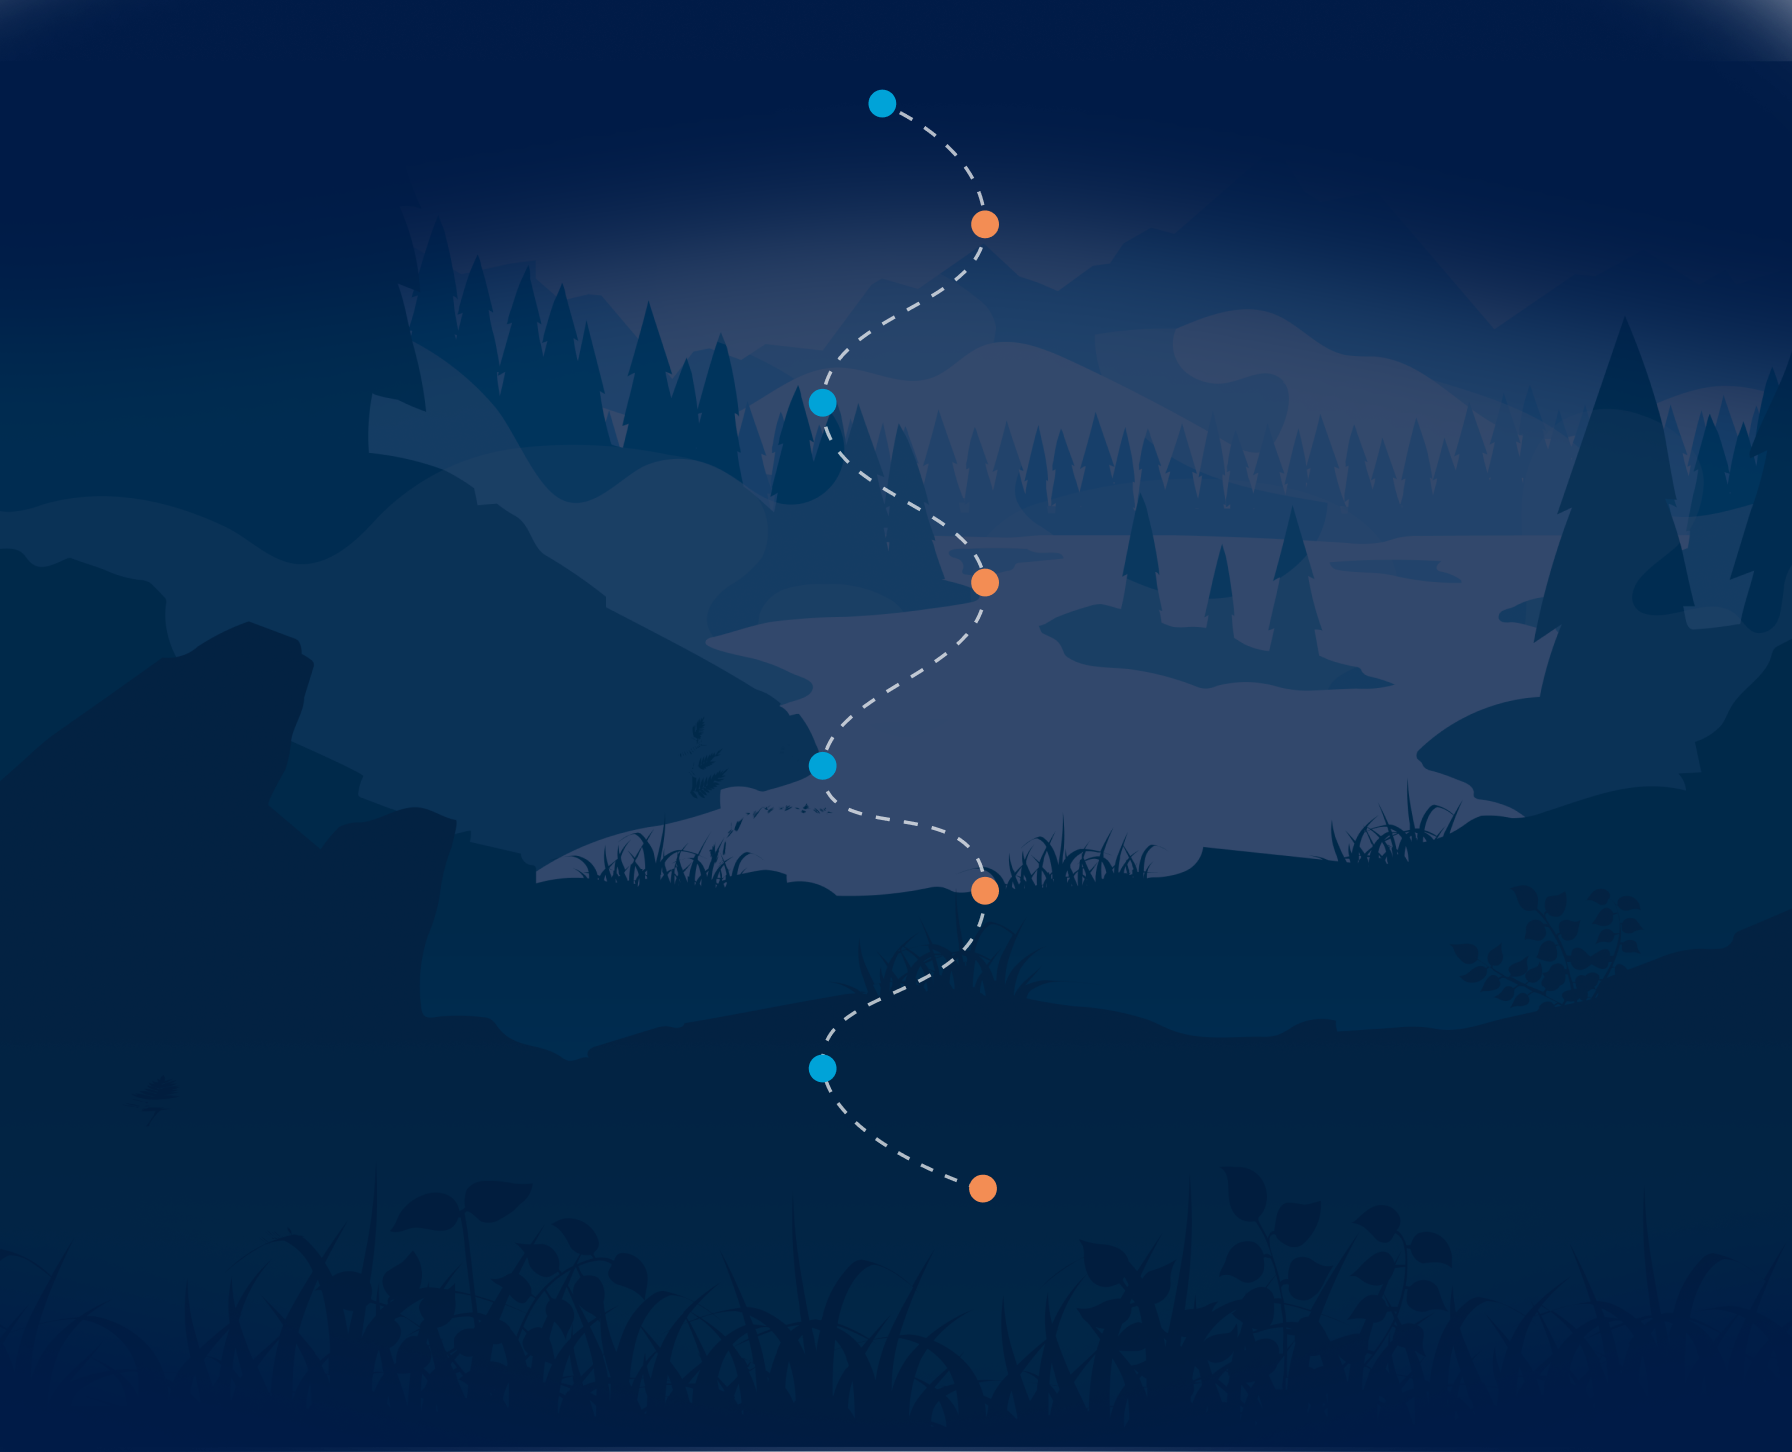
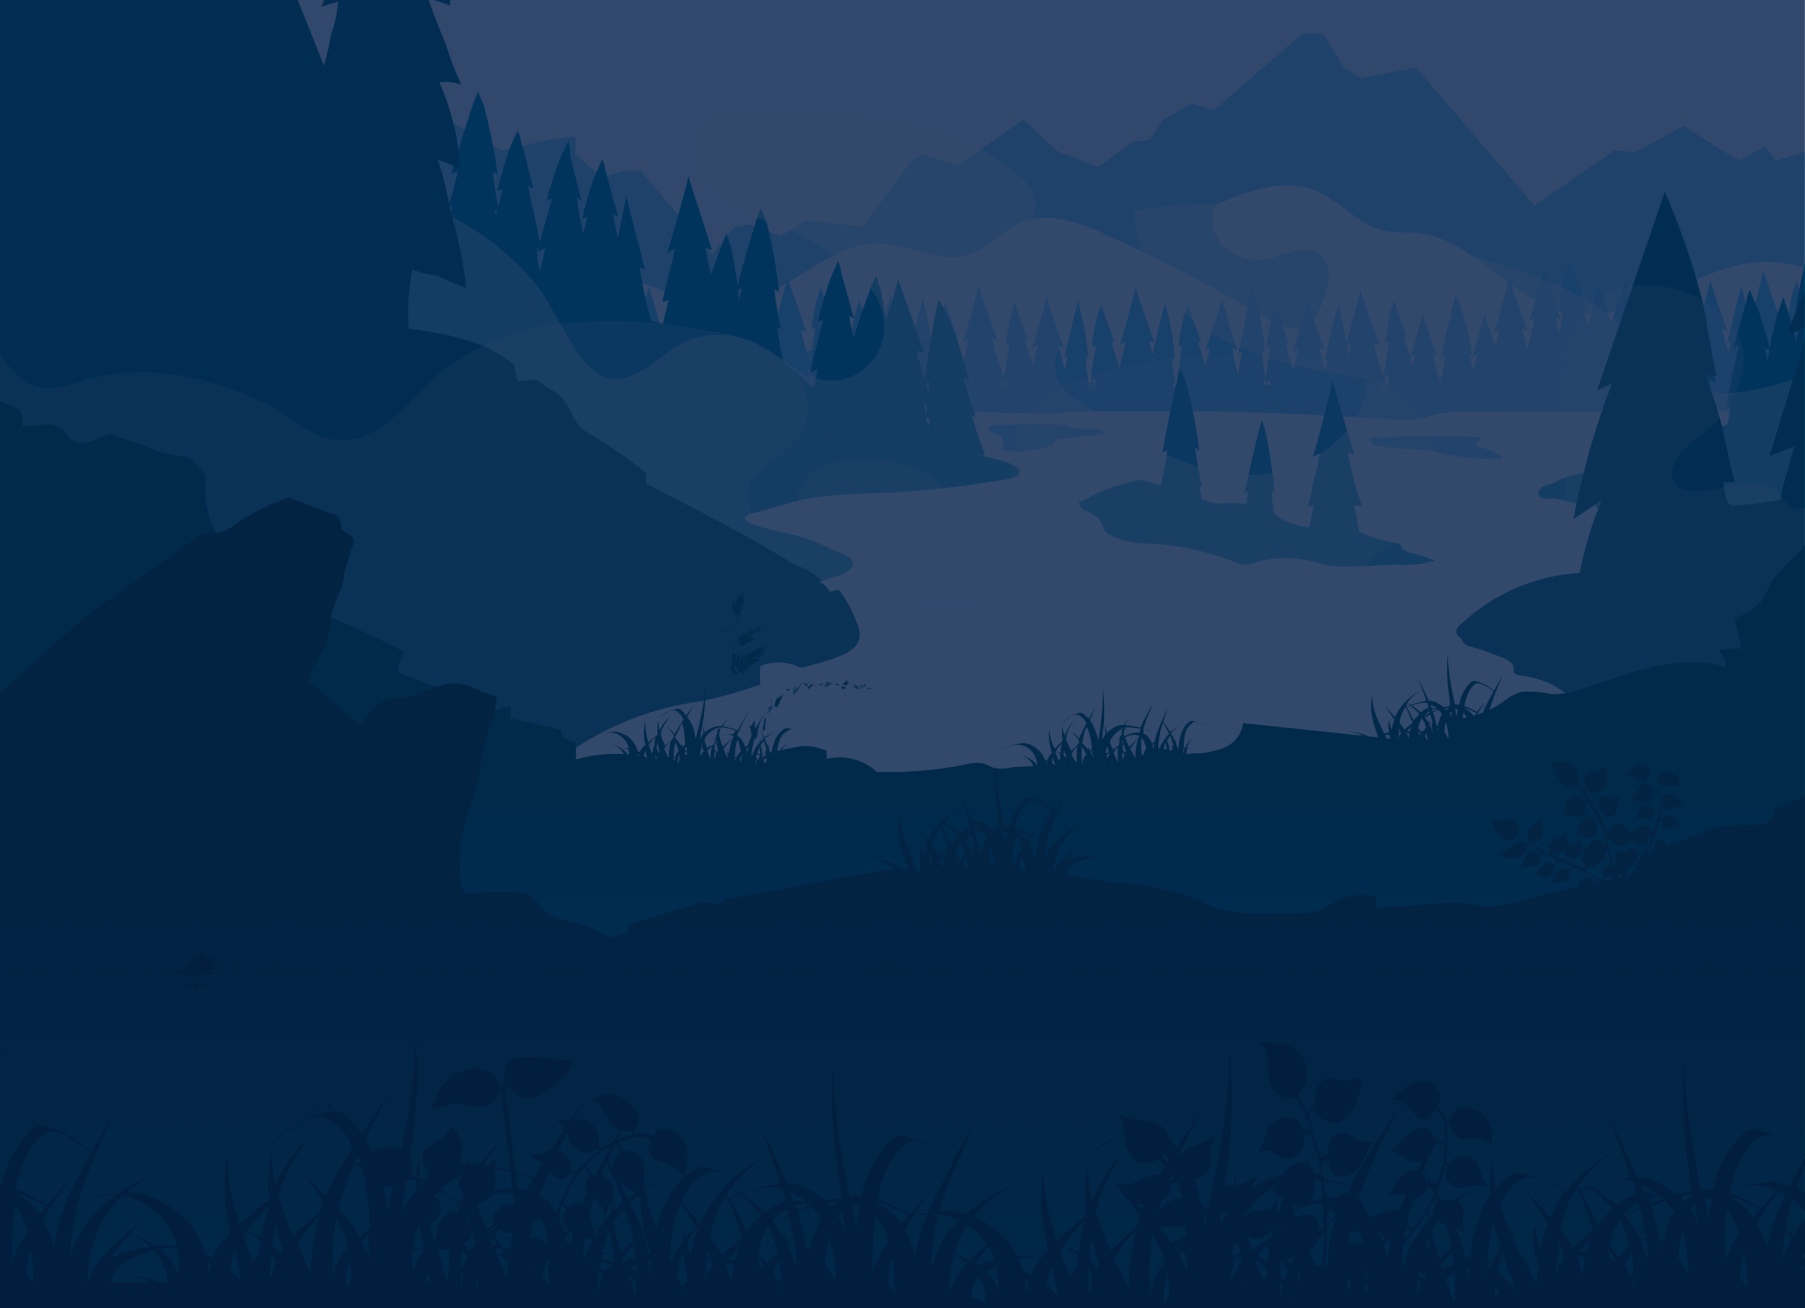
Roadmap article

diff --git a/src/components/RoadMapCanvas.tsx b/src/components/RoadMapCanvas.tsx
@@ -1,0 +1,144 @@
+import { useCallback, useEffect, useRef } from "react";
+
+interface TPosition {
+    x: number;
+    y: number;
+    type: "right" | "left";
+}
+
+function RoadMapCanvas() {
+    const canvasRef = useRef<HTMLCanvasElement>(null);
+    const allParagraph = document.querySelectorAll(".canvas-paragraph") || undefined;
+    const canvasContainer = document.querySelector(".canvas-container") || undefined;
+    const canvas = canvasRef.current;
+    const ctx = canvas?.getContext("2d");
+
+    const getPosition = useCallback(
+        (element: Element, type: "right" | "left"): TPosition => {
+            if (!canvasContainer) return { x: 0, y: 0, type };
+            let x;
+            const y =
+                element.getBoundingClientRect().y -
+                canvasContainer.getBoundingClientRect().y +
+                element.getBoundingClientRect().height / 2;
+            if (type === "right") {
+                x =
+                    element.getBoundingClientRect().x -
+                    canvasContainer.getBoundingClientRect().x +
+                    element.getBoundingClientRect().width +
+                    60;
+            } else {
+                x =
+                    element.getBoundingClientRect().x -
+                    canvasContainer.getBoundingClientRect().x -
+                    60;
+            }
+
+            return { x, y, type };
+        },
+        [canvasContainer]
+    );
+
+    const drawTwoCurves = useCallback(
+        (start: TPosition, end: TPosition, direction: "LTR" | "RTL") => {
+            if (!ctx) return;
+            const controlPoint1 = {
+                x: start.x,
+                y: start.y + (end.y - start.y) / 2,
+            };
+            const endPoint1 = {
+                x:
+                    direction === "LTR"
+                        ? start.x + (end.x - start.x) / 2
+                        : end.x + (start.x - end.x) / 2,
+                y: start.y + (end.y - start.y) / 2,
+            };
+
+            const controlPoint2 = {
+                x: end.x,
+                y: start.y + (end.y - start.y) / 2,
+            };
+            const endPoint2 = {
+                x: end.x,
+                y: end.y,
+            };
+            ctx.beginPath();
+            ctx.setLineDash([15, 10]);
+            ctx.strokeStyle = "rgba(255,255,255,.7)";
+            ctx.lineWidth = 4;
+            ctx.moveTo(start.x, start.y);
+            ctx.quadraticCurveTo(controlPoint1.x, controlPoint1.y, endPoint1.x, endPoint1.y);
+            ctx.stroke();
+
+            ctx.beginPath();
+            ctx.setLineDash([15, 10]);
+            ctx.strokeStyle = "rgba(255,255,255,.7)";
+            ctx.moveTo(endPoint1.x, endPoint1.y);
+            ctx.quadraticCurveTo(controlPoint2.x, controlPoint2.y, endPoint2.x, endPoint2.y);
+            ctx.lineWidth = 4;
+            ctx.moveTo(controlPoint1.x, controlPoint1.y);
+
+            ctx.stroke();
+        },
+        [ctx]
+    );
+
+    const drawOneCurve = useCallback(
+        (start: TPosition, end: TPosition, direction: "LTR" | "RTL") => {
+            if (!ctx) return;
+            const controlPoint = {
+                x: direction === "LTR" ? end.x : start.x,
+                y: direction === "LTR" ? start.y : end.y,
+            };
+            ctx.beginPath();
+            ctx.setLineDash([15, 10]);
+            ctx.strokeStyle = "rgba(255,255,255,.7)";
+            ctx.lineWidth = 4;
+            ctx.moveTo(start.x, start.y);
+            ctx.quadraticCurveTo(controlPoint.x, controlPoint.y, end.x, end.y);
+            ctx.stroke();
+        },
+        [ctx]
+    );
+
+    useEffect(() => {
+        if (!allParagraph.length || !canvasContainer || !canvasRef.current || !canvas || !ctx)
+            return;
+
+        //Set the space of canvas
+        canvas.width = canvasContainer.getBoundingClientRect().width;
+        canvas.height = canvasContainer.getBoundingClientRect().height;
+
+        const positionArr = Array.from(allParagraph).map((p, i) =>
+            i <= 4 ? getPosition(p, "right") : getPosition(p, "left")
+        );
+
+        //Draw Curves
+        drawOneCurve(positionArr[0], positionArr[5], "LTR");
+        drawTwoCurves(positionArr[5], positionArr[1], "RTL");
+        drawTwoCurves(positionArr[1], positionArr[6], "LTR");
+        drawTwoCurves(positionArr[6], positionArr[2], "RTL");
+        drawTwoCurves(positionArr[2], positionArr[7], "LTR");
+        drawTwoCurves(positionArr[7], positionArr[3], "RTL");
+        drawTwoCurves(positionArr[3], positionArr[8], "LTR");
+        drawOneCurve(positionArr[8], positionArr[4], "RTL");
+
+        //Draw Points
+        positionArr.forEach((position) => {
+            if (!position?.x || !position.y) return;
+            ctx.beginPath();
+            ctx.lineWidth = 3;
+            ctx.arc(position?.x, position?.y, 15, 0, 360, false);
+            position.type === "left" ? (ctx.fillStyle = "#F38D54") : (ctx.fillStyle = "#00A3D8");
+            ctx.fill();
+        });
+    }, [allParagraph, canvas, canvasContainer, ctx, drawOneCurve, drawTwoCurves, getPosition]);
+    return (
+        <canvas
+            className="absolute top-0 bottom-0 left-0 right-0 lg:block hidden"
+            ref={canvasRef}
+        ></canvas>
+    );
+}
+
+export default RoadMapCanvas;

diff --git a/src/components/RoadmapArticle.tsx b/src/components/RoadmapArticle.tsx
@@ -6,6 +6,7 @@ import imgRoadmapMobile from "../assets/images/roadmap-mobile-background.png";
 import Article from "./commons/Article";
 import { ArticleBox } from "./ArticleBox";
 import { useMediaQuery } from "../app/hooks";
+import RoadMapCanvas from "./RoadMapCanvas";
 
 export default function RoadmapArticle(): React.ReactElement {
     const mediaQuery = useMediaQuery();
@@ -186,7 +187,7 @@ export default function RoadmapArticle(): React.ReactElement {
                     })
                     .map((item, index) => {
                         return (
-                            <div key={index}>
+                            <div className="canvas-paragraph" key={index}>
                                 <div className="mt-28 text-white text-xl font-bold">
                                     {item.stage}
                                 </div>
@@ -222,7 +223,7 @@ export default function RoadmapArticle(): React.ReactElement {
                     })
                     .map((item, index) => {
                         return (
-                            <div key={index}>
+                            <div className="canvas-paragraph" key={index}>
                                 <div className="mt-36 text-white text-xl font-bold">
                                     {item.stage}
                                 </div>
@@ -286,15 +287,9 @@ export default function RoadmapArticle(): React.ReactElement {
             </div>
         );
     }, []);
+
     return (
         <Article className="flex-col lg:flex-row min-h-[700px]">
-            <div
-                className={cn(
-                    "absolute top-0 bottom-0 right-0 left-0",
-                    "bg-no-repeat bg-cover bg-center bg-primary-mint-lab"
-                )}
-            ></div>
-
             <div
                 className={cn(
                     "grow z-20 bg-primary-mint-lab px-5 lg:px-12",
@@ -304,25 +299,43 @@ export default function RoadmapArticle(): React.ReactElement {
                 <h1 className="mb-8 last:mb-0 lg:text-center font-bold text-2xl lg:text-5xl z-20">
                     The Legendary Roadmap
                 </h1>
+
                 <div
                     className={cn(
                         "absolute top-0 lg:top-20 bottom-0 right-0 left-0",
-                        "bg-no-repeat bg-cover bg-top"
+                        "bg-no-repeat  "
                     )}
                     style={{
-                        backgroundImage: mediaQuery.checkMatchMinWidth(760)
+                        backgroundImage: mediaQuery.checkMatchMinWidth(1024)
                             ? `url(${imgRoadmap01})`
                             : `url(${imgRoadmapMobile})`,
+                        backgroundSize: "cover",
                     }}
                 ></div>
-
-                {mediaQuery.checkMatchMinWidth(1024) && (
-                    <ArticleBox
-                        className="bg-contain bg-repeat-round justify-between  lg:pt-12 lg:pb-36 lg:pr-36 lg:pl-48  z-10"
-                        childElement={renderArr()}
-                    />
-                )}
-                {!mediaQuery.checkMatchMinWidth(1024) && renderArrMobile()}
+                <div
+                    className={cn(
+                        "bg-gradient-to-b from-primary-mint-lab via-primary-mint-lab/100 to-slate-900/0 ",
+                        "absolute h-1/4 w-full top-[3%] right-0 left-0  "
+                    )}
+                ></div>
+                <div
+                    className={cn(
+                        "bg-gradient-to-t from-primary-mint-lab via-primary-mint-lab-900/75 to-slate-900/0 ",
+                        "absolute h-1/5 w-full bottom-0 right-0 left-0  "
+                    )}
+                ></div>
+                <div className="canvas-container relative">
+                    {mediaQuery.checkMatchMinWidth(1024) && (
+                        <>
+                            <RoadMapCanvas />
+                            <ArticleBox
+                                className="bg-contain bg-repeat-round justify-between lg:pt-12 lg:pb-36 4xl:pr-36 4xl:pl-48  z-10"
+                                childElement={renderArr()}
+                            />
+                        </>
+                    )}
+                    {!mediaQuery.checkMatchMinWidth(1024) && renderArrMobile()}
+                </div>
             </div>
         </Article>
     );
